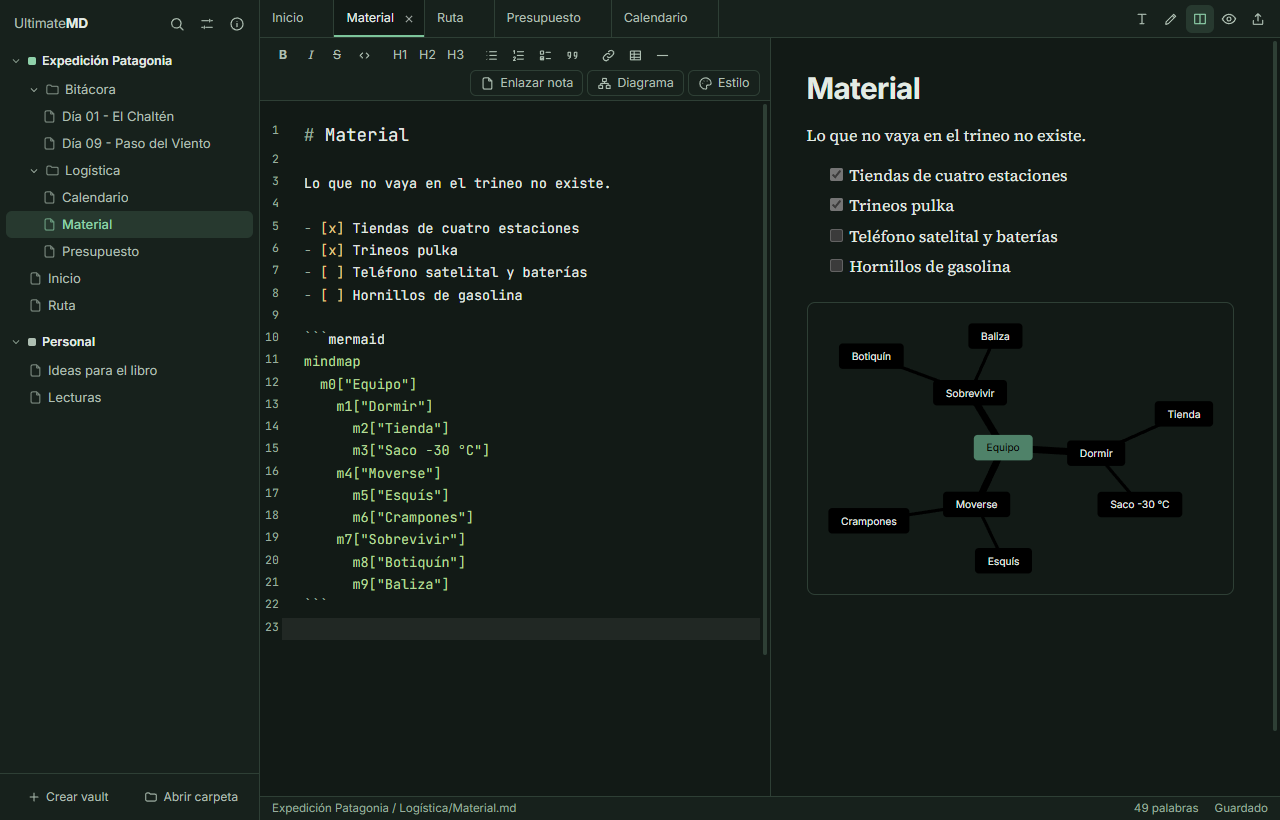
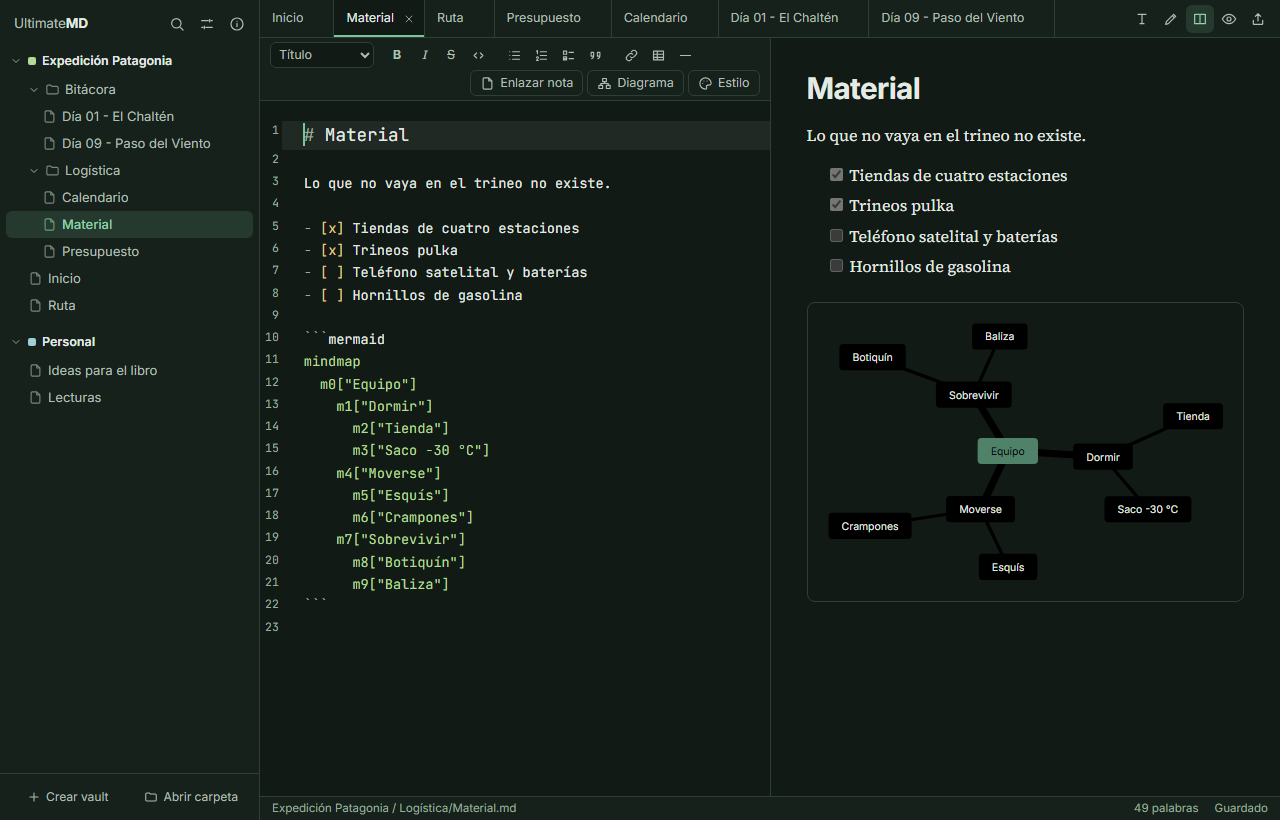
Generate the website screenshots from the interface
The screenshots showed the old H1-H3 buttons. They now come from the
real interface with Playwright, on an invented demo vault, so that
`npm run screenshots` brings them up to date. The test mock lists
folders first, as the backend does.

Closes #122

diff --git a/e2e/screenshots.spec.ts b/e2e/screenshots.spec.ts
@@ -1,0 +1,147 @@
+// Screenshots for the website and the README, taken from the real interface
+// with invented vaults (demo.js). Run with `npm run screenshots`; they are not
+// part of the normal test run.
+import { expect, test, type Page } from '@playwright/test';
+
+const OUT = 'site/img';
+const SIZE = { width: 1280, height: 820 };
+
+type View = 'visual' | 'edit' | 'split' | 'preview';
+interface Setup {
+  theme?: string;
+  /** Tabs to restore, in order. */
+  tabs: [path: string, view: View][];
+  /** The tab shown; the last one when not given. */
+  active?: string;
+}
+
+test.use({ viewport: SIZE, deviceScaleFactor: 1 });
+
+async function start(page: Page, { theme = 'claro', tabs, active = tabs.at(-1)![0] }: Setup) {
+  await page.route('https://api.github.com/**', (route) => route.fulfill({ status: 404 }));
+  await page.addInitScript({ path: 'e2e/mock.js' });
+  await page.addInitScript({ path: 'e2e/demo.js' });
+  await page.addInitScript(
+    ({ theme, tabs, active }) => {
+      localStorage.setItem('ultimatemd.theme', JSON.stringify({ fixed: theme, light: 'claro', dark: 'oscuro' }));
+      const open = tabs.map(([path, view]) => ({ vaultId: 'a', path, view }));
+      localStorage.setItem('ultimatemd.session', JSON.stringify({ open, active: `a:${active}` }));
+    },
+    { theme, tabs, active },
+  );
+  await page.goto('/');
+  // Every folder of the expedition open, as someone working in it would have it.
+  const aside = page.locator('aside');
+  await expect(aside.getByRole('button', { name: 'Inicio', exact: true })).toBeVisible();
+  for (const [folder, child] of [['Bitácora', 'Día 01 - El Chaltén'], ['Logística', 'Calendario']]) {
+    if (!(await aside.getByRole('button', { name: child, exact: true }).isVisible())) {
+      await aside.getByRole('button', { name: folder, exact: true }).click();
+    }
+    await expect(aside.getByRole('button', { name: child, exact: true })).toBeVisible();
+  }
+  await settle(page);
+}
+
+/** Waits for diagrams to be drawn and the interface to stop moving. */
+async function settle(page: Page) {
+  // Previews live in shadow roots, which CSS :has() does not reach into.
+  await page.waitForFunction(
+    () => {
+      const roots: (Document | ShadowRoot)[] = [document];
+      for (const el of document.querySelectorAll('*')) if (el.shadowRoot) roots.push(el.shadowRoot);
+      const blocks = roots.flatMap((r) => [...r.querySelectorAll('.diagram, .cm-v-diagram')]);
+      return blocks.every((b) => b.querySelector('svg, .diagram-error'));
+    },
+    null,
+    { timeout: 30_000 },
+  );
+  // Diagrams may be drawn again once the theme settles: wait until nothing changes.
+  const snapshot = () =>
+    page.evaluate(() =>
+      [...document.querySelectorAll('*')].map((e) => e.shadowRoot?.innerHTML.length ?? 0).join() + document.body.innerHTML.length,
+    );
+  let before = '';
+  for (let now = await snapshot(); now !== before; now = await snapshot()) {
+    before = now;
+    await page.waitForTimeout(1000);
+  }
+  await page.evaluate(() => document.fonts.ready);
+  await page.mouse.move(SIZE.width - 1, SIZE.height - 1);
+  await page.waitForTimeout(400);
+}
+
+const shot = (page: Page, name: string) => page.screenshot({ path: `${OUT}/${name}.png` });
+
+/** In visual mode the line with the cursor shows its marks; this leaves it on an empty line. */
+async function restCursor(page: Page) {
+  await page.locator('.cm-content').focus();
+  await page.keyboard.press('Control+Home');
+  await page.keyboard.press('ArrowDown');
+  await page.evaluate(() => (document.activeElement as HTMLElement | null)?.blur());
+  await settle(page);
+}
+
+test('visual mode', async ({ page }) => {
+  await start(page, { tabs: [['Inicio.md', 'visual']] });
+  await restCursor(page);
+  await shot(page, 'visual');
+});
+
+test('editor and preview side by side', async ({ page }) => {
+  await start(page, { tabs: [['Inicio.md', 'visual'], ['Logística/Material.md', 'split'], ['Ruta.md', 'split']] });
+  await shot(page, 'claro');
+});
+
+test('dark theme', async ({ page }) => {
+  await start(page, {
+    theme: 'oscuro',
+    tabs: [['Inicio.md', 'visual'], ['Logística/Material.md', 'split'], ['Ruta.md', 'split'], ['Logística/Presupuesto.md', 'preview'], ['Logística/Calendario.md', 'preview']],
+  });
+  await shot(page, 'oscuro');
+});
+
+test('export dialog', async ({ page }) => {
+  await start(page, { tabs: [['Inicio.md', 'visual'], ['Ruta.md', 'split'], ['Logística/Presupuesto.md', 'split']] });
+  await page.keyboard.press('Control+e');
+  // The PDF and Word previews come from the backend; HTML is drawn here, in the browser.
+  await page.getByRole('group', { name: 'Formato' }).getByRole('button', { name: 'HTML' }).click();
+  await page.getByRole('group', { name: 'Alcance' }).getByRole('button', { name: 'Vault' }).click();
+  const preview = page.getByRole('dialog', { name: 'Exportar' });
+  await expect(preview.locator('.html svg').first()).toBeVisible({ timeout: 30_000 });
+  await settle(page);
+  await shot(page, 'export');
+});
+
+test('diagram builder', async ({ page }) => {
+  await start(page, { tabs: [['Logística/Material.md', 'split'], ['Inicio.md', 'edit']] });
+  await page.locator('.cm-line', { hasText: 'Cruzar el paso' }).click();
+  await page.getByRole('button', { name: 'Diagrama', exact: true }).click();
+  await expect(page.getByRole('dialog', { name: 'Editar diagrama' }).locator('svg').first()).toBeVisible({ timeout: 30_000 });
+  await settle(page);
+  await shot(page, 'diagramas');
+});
+
+test('theme picker', async ({ page }) => {
+  await start(page, { tabs: [['Inicio.md', 'visual']] });
+  await page.getByTitle('Ajustes y MCP').click();
+  const settings = page.getByRole('dialog', { name: 'Ajustes' });
+  await settings.getByRole('navigation').getByRole('button', { name: 'Apariencia' }).click();
+  await settle(page);
+  await settings.locator('.themes').screenshot({ path: `${OUT}/temas.png` });
+});
+
+const TABS = [['Inicio.md', 'visual'], ['Logística/Material.md', 'split'], ['Ruta.md', 'split'], ['Logística/Presupuesto.md', 'preview'], ['Logística/Calendario.md', 'preview'], ['Bitácora/Día 01 - El Chaltén.md', 'preview'], ['Bitácora/Día 09 - Paso del Viento.md', 'preview']] as [string, View][];
+
+for (const [theme, path, view] of [
+  ['rosa', 'Inicio.md', 'visual'],
+  ['medianoche', 'Ruta.md', 'preview'],
+  ['bosque', 'Logística/Material.md', 'split'],
+  ['sepia', 'Bitácora/Día 01 - El Chaltén.md', 'preview'],
+] as [string, string, View][]) {
+  test(`theme ${theme}`, async ({ page }) => {
+    const tabs = TABS.map(([p, v]) => [p, p === path ? view : v] as [string, View]);
+    await start(page, { theme, tabs, active: path });
+    if (view === 'visual') await restCursor(page);
+    await shot(page, theme);
+  });
+}

diff --git a/e2e/demo.js b/e2e/demo.js
@@ -1,0 +1,167 @@
+// Demo vaults for the screenshots of the website and the README. Runs after
+// mock.js and replaces its test files with an invented expedition.
+(() => {
+  const { files, vaults, vaultThemes } = window.__test;
+
+  const expedition = {
+    'Inicio.md': `# Expedición Patagonia 2027
+
+Veintidós días cruzando el **Campo de Hielo Sur**, de El Chaltén a Puerto Natales. Seis personas, dos trineos y ninguna cobertura. Empieza por la [[Ruta]] y el [[Presupuesto]].
+
+## Antes de salir
+
+- [x] Permisos del Parque Nacional
+- [x] Seguro de rescate en glaciar
+- [ ] Revisar el [[Material]] con el equipo
+- [ ] Reservar el vuelo a El Calafate
+
+## Equipo
+
+| Persona | Papel | Experiencia |
+| --- | --- | --- |
+| Nerea | Jefa de expedición | Ocho travesías polares |
+| Tomás | Médico | Rescate en montaña |
+| Amaia | Navegación | Guía en Svalbard |
+| Julen | Cocina y logística | Campamentos base en Nepal |
+
+## Decidir si cruzamos
+
+\`\`\`mermaid
+flowchart LR
+  n1("Parte del tiempo")
+  n2{"¿Viento menor de 60 km/h?"}
+  n3["Cruzar el paso"]
+  n4["Esperar en la cueva"]
+  n1 --> n2
+  n2 -->|Sí| n3
+  n2 -->|No| n4
+  n4 --> n1
+\`\`\`
+`,
+    'Ruta.md': `# Ruta
+
+Cinco etapas entre el Fitz Roy y el mar. La más delicada es el **Paso del Viento**, donde dependemos de una ventana de buen tiempo.
+
+\`\`\`d2
+direction: right
+chalten: "El Chaltén" {shape: rectangle; style.border-radius: 12}
+paso: "Paso del Viento" {shape: diamond}
+circo: "Circo de los Altares" {shape: rectangle}
+natales: "Puerto Natales" {shape: rectangle; style.border-radius: 12}
+chalten -> paso: "4 días"
+paso -> circo: "9 días"
+circo -> natales: "9 días"
+\`\`\`
+
+## Comunicaciones
+
+\`\`\`mermaid
+sequenceDiagram
+  participant p1 as Campamento
+  participant p2 as Satélite
+  participant p3 as Base en Calafate
+  p1 ->> p2: Posición diaria
+  p2 ->> p3: Mensaje a las 20:00
+  p3 -->> p1: Parte meteorológico
+\`\`\`
+
+Consulta el [[Calendario]] para ver cuándo llega cada etapa.
+`,
+    'Logística/Calendario.md': `# Calendario
+
+La expedición sale el 12 de enero. Antes hay que cerrar la preparación física y la logística.
+
+\`\`\`mermaid
+gantt
+  dateFormat YYYY-MM-DD
+  axisFormat %d %b
+  Entrenamiento en Pirineos :a1, 2026-11-02, 45d
+  Compra de material :a2, 2026-11-16, 30d
+  Envío de carga a Calafate :a3, 2026-12-17, 20d
+  Travesía :a4, 2027-01-12, 22d
+\`\`\`
+
+## Hitos
+
+1. Cierre de presupuesto
+2. Prueba de trineos en Baqueira
+3. Salida desde Bilbao
+`,
+    'Logística/Material.md': `# Material
+
+Lo que no vaya en el trineo no existe.
+
+- [x] Tiendas de cuatro estaciones
+- [x] Trineos pulka
+- [ ] Teléfono satelital y baterías
+- [ ] Hornillos de gasolina
+
+\`\`\`mermaid
+mindmap
+  m0["Equipo"]
+    m1["Dormir"]
+      m2["Tienda"]
+      m3["Saco -30 °C"]
+    m4["Moverse"]
+      m5["Esquís"]
+      m6["Crampones"]
+    m7["Sobrevivir"]
+      m8["Botiquín"]
+      m9["Baliza"]
+\`\`\`
+`,
+    'Logística/Presupuesto.md': `# Presupuesto
+
+Total previsto: **48 500 €**, con un 10 % de margen para imprevistos.
+
+| Partida | Importe | Estado |
+| --- | --- | --- |
+| Vuelos y traslados | 14 200 € | Pagado |
+| Material técnico | 11 800 € | Parcial |
+| Permisos y seguros | 9 600 € | Pagado |
+| Comida liofilizada | 6 400 € | Pendiente |
+| Comunicaciones | 6 500 € | Pendiente |
+
+\`\`\`mermaid
+pie title Reparto del gasto
+  "Vuelos" : 14200
+  "Material" : 11800
+  "Permisos" : 9600
+  "Comida" : 6400
+  "Comunicaciones" : 6500
+\`\`\`
+
+El patrocinio de [[Material]] cubre un tercio de la partida técnica.
+`,
+    'Bitácora/Día 01 - El Chaltén.md': `# Día 01 · El Chaltén
+
+Amanece despejado y el Fitz Roy se deja ver entero. Cargamos los trineos en el refugio y salimos a las nueve.
+
+> El primer día siempre pesa más la mochila que las piernas.
+
+Llegamos al campamento con viento suave. Mañana, la primera subida al glaciar.
+`,
+    'Bitácora/Día 09 - Paso del Viento.md': `# Día 09 · Paso del Viento
+
+Tres días esperando en la cueva. Hoy el parte da 45 km/h y decidimos cruzar.
+
+- Salida: 05:30
+- Llegada al otro lado: 14:10
+- Temperatura mínima: -18 °C
+`,
+  };
+
+  const personal = {
+    'Ideas para el libro.md': '# Ideas para el libro\n\n- Empezar por la espera en la cueva, no por la salida.\n- Un capítulo por persona del equipo.\n',
+    'Lecturas.md': '# Lecturas\n\n- *Sur*, de Ernest Shackleton\n- *Viaje de una parisiense a Lhasa*, de Alexandra David-Néel\n',
+  };
+
+  for (const [id, content] of [['a', expedition], ['b', personal]]) {
+    for (const key of Object.keys(files[id])) delete files[id][key];
+    Object.assign(files[id], content);
+    delete vaultThemes[id];
+  }
+  vaults[0].name = 'Expedición Patagonia';
+  vaults[0].path = '/v/Expedicion';
+  vaults[1].name = 'Personal';
+})();

diff --git a/e2e/mock.js b/e2e/mock.js
@@ -37,7 +37,14 @@
 
   function tree(id) {
     const root = [];
-    for (const path of Object.keys(files[id]).sort()) {
+    // Folders first, as the backend sorts them.
+    const sortKey = (path) => path.split('/').map((part, i, all) => `${i < all.length - 1 ? 0 : 1}${part.toLowerCase()}`);
+    const paths = Object.keys(files[id]).sort((a, b) => {
+      const [x, y] = [sortKey(a), sortKey(b)];
+      for (let i = 0; i < Math.min(x.length, y.length); i++) if (x[i] !== y[i]) return x[i] < y[i] ? -1 : 1;
+      return x.length - y.length;
+    });
+    for (const path of paths) {
       const parts = path.split('/');
       let level = root;
       parts.forEach((name, i) => {
@@ -174,6 +181,7 @@
 
   window.__test = {
     files,
+    vaults,
     vaultThemes,
     /** Simulates another program, such as the MCP server, changing a file. */
     externalWrite(id, path, content) {

diff --git a/playwright.config.ts b/playwright.config.ts
@@ -2,6 +2,8 @@ import { defineConfig } from '@playwright/test';
 
 export default defineConfig({
   testDir: 'e2e',
+  // Screenshots for the website run on their own: npm run screenshots.
+  testIgnore: 'screenshots.spec.ts',
   timeout: 30_000,
   // Rendering diagrams for an export can take this long on a CI machine.
   expect: { timeout: 15_000 },

diff --git a/playwright.screenshots.config.ts b/playwright.screenshots.config.ts
@@ -1,0 +1,5 @@
+import { defineConfig } from '@playwright/test';
+import base from './playwright.config';
+
+// Writes the screenshots of site/img from the real interface.
+export default defineConfig({ ...base, testIgnore: undefined, testMatch: 'screenshots.spec.ts', workers: 1 });

diff --git a/README.md b/README.md
@@ -155,6 +155,8 @@ npm run dev     # abre la app
 npm run build   # crea los instaladores para tu sistema
 ```
 
+Las capturas de `site/img` salen de la interfaz real, con un vault de ejemplo inventado: `npm run screenshots` las vuelve a generar.
+
 ## Contribuir
 
 El código es abierto y puedes usarlo, estudiarlo o adaptarlo con su licencia. El desarrollo es privado por ahora: no se aceptan pull requests sin acuerdo previo. Si encuentras un fallo o tienes una idea, abre una [issue](https://github.com/icabero/UltimateMD/issues). Para avisar de un problema de seguridad, sigue la [política de seguridad](SECURITY.md).
